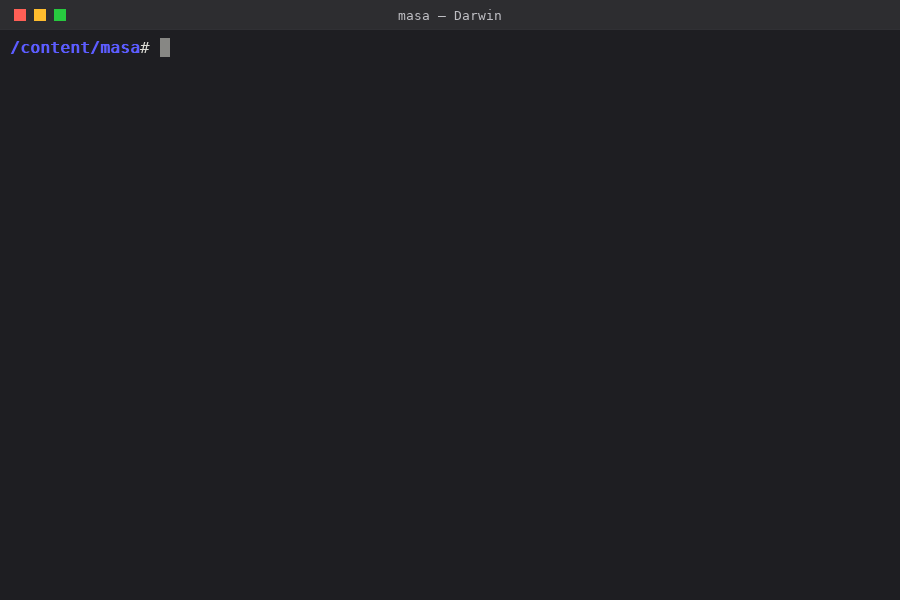
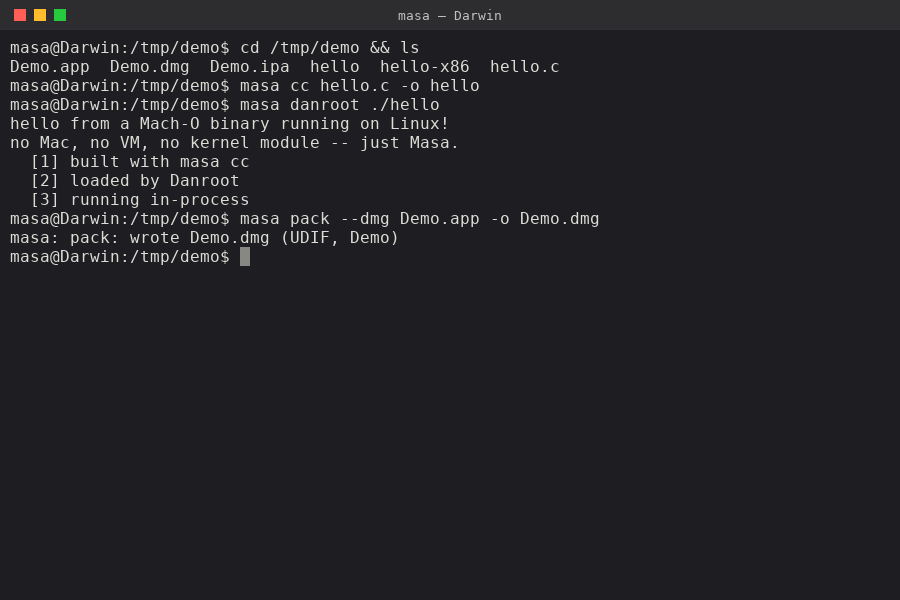
release: v1.6.1 - polished README, terminal screenshot, dist/NDK build fixes
Documentation and assets:
- Add a centered assets/logo.png header and embed a fresh 900x600
  masa-term screenshot (assets/masa-term.png) in the GUI terminal
  section.
- Add a "What's in the box" feature table covering every v1.6.0
  capability: Danroot Layers 1-5 (dynamic libraries, virtual root,
  CoreFoundation/Objective-C, the cross-architecture bridge, and the
  AppKit/CoreGraphics SDL2 backend), masa pack, masa brew, masa xcode
  and masa doctor.

Fixes (these unblocked the release build):
- scripts/dist.sh omitted src/danroot_appkit.c from the core source
  list, so the native and Windows archives failed to link with
  undefined references to dr_gui_lookup/dr_gui_reset/dr_gui_class/
  dr_gui_msgSend. Add the translation unit (its SDL2-free stubs are
  what the core tool links against).
- tests/test_masa.c's Android NDK compile test had the same omission;
  add src/danroot_cf.c, src/danroot_objc.c and src/danroot_appkit.c.
- .github/workflows/ci.yml's Windows cross-compile job had the same
  omission; add src/danroot_appkit.c.

Test hygiene:
- Add scripts/lsan.supp and wire it into the `make test-gui` rule. The
  only leak the GUI suite reports is a 1032-byte session allocation
  inside libdbus-1 (reached through SDL2's D-Bus backend), reproducible
  with a bare SDL2 program; the suppression matches only libdbus-1
  frames, so Masa's own allocations are still checked.

Bump MASA_VERSION to 1.6.1.

Verified: make test 113/113 (1 skipped), SDL_VIDEODRIVER=dummy make
[…]

Changed region(s): [[0.0, 0.06, 0.6222, 0.45], [0.56, 0.36, 0.6844, 0.39]]

diff --git a/tests/test_masa.c b/tests/test_masa.c
@@ -5353,7 +5353,8 @@ static void test_android_ndk_compile(void)
         "src/main.c", "src/cc_wrapper.c", "src/swift_wrapper.c",
         "src/sys_shims.c", "src/tool_shims.c", "src/sdk.c",
         "src/xcodeproj.c", "src/brew.c", "src/pack.c", "src/exec.c",
-        "src/doctor.c", "src/danroot.c",
+        "src/doctor.c", "src/danroot.c", "src/danroot_cf.c",
+        "src/danroot_objc.c", "src/danroot_appkit.c",
         "src/platform_posix.c"
     };
     const char *ndk_cc = getenv("ANDROID_CC");

diff --git a/include/masa.h b/include/masa.h
@@ -28,7 +28,7 @@
 extern "C" {
 #endif
 
-#define MASA_VERSION "1.6.0"
+#define MASA_VERSION "1.6.1"
 
 /* Target triple used when MASA_TARGET is not set in the environment. */
 #define MASA_DEFAULT_TARGET "arm64-apple-darwin"

diff --git a/README.md b/README.md
@@ -1,8 +1,10 @@
 # Masa
 
+<p align="center"><img src="assets/logo.png" alt="Masa Logo" width="140" /></p>
+
 [![License: GPL v3](https://img.shields.io/badge/License-GPLv3-blue.svg)](LICENSE)
 [![Language: C11](https://img.shields.io/badge/language-C11-00599C.svg)](#requirements)
-[![Version: v1.6.0](https://img.shields.io/badge/version-v1.6.0-brightgreen.svg)](https://github.com/M5Devs/masa/releases)
+[![Version: v1.6.1](https://img.shields.io/badge/version-v1.6.1-brightgreen.svg)](https://github.com/M5Devs/masa/releases)
 [![Platforms: Linux | Windows | Android](https://img.shields.io/badge/platforms-Linux%20%7C%20Windows%20%7C%20Android-lightgrey.svg)](#portability)
 
 > **Build and package macOS Mach-O binaries on Linux, Windows & Android — and
@@ -39,6 +41,25 @@ Masa is licensed under the GNU General Public License v3.0 or later. See
 - **It's small and portable.** Pure C11 built with `-std=c11 -Wall -Wextra
   -Werror` and no runtime dependencies for the core. Builds on Linux, Windows
   (MinGW-w64) and Android (NDK).
+
+## What's in the box
+
+Every capability below ships in **v1.6.1**, inside one dependency-free C11
+binary.
+
+| Capability | Command | What it does |
+| --- | --- | --- |
+| Cross-compile | `masa cc`, `masa swiftc` | Build real Mach-O executables and dylibs with `clang` + `ld64.lld` |
+| Run Mach-O | `masa run` / `masa danroot` | Execute a Mach-O `MH_EXECUTE` and its `MH_DYLIB` dependencies in-process — Danroot Layers 1–4 (dynamic libraries, virtual root, CoreFoundation + Objective-C runtimes, the cross-architecture bridge) |
+| Darwin GUI | `build/masa-gui run` | AppKit + CoreGraphics over SDL2 — open a real window for a self-contained Darwin app — Danroot Layer 5 |
+| Xcode projects | `masa xcode build` | Build a checked-in `.xcodeproj` and bundle the `.app`, without Xcode |
+| Homebrew | `masa brew lint` / `masa brew build` | Lint a formula and build it into a Cellar |
+| Package | `masa pack --dmg` / `--ipa` | Write a UDIF `.dmg` or a `Payload/<App>.app` `.ipa` from scratch |
+| Stub SDK | `masa sdk init-stub` | Write the clean-room SDK the linker needs (no Apple SDK) |
+| Build systems | `masa exec`, `masa shell`, `masa init-shims` | Run `make` and scripts with `cc`, `ld`, `ar`, `ranlib`, `strip`, `nm`, `otool` and `codesign` resolved to Masa's shims |
+| GUI terminal | `masa-term` | Standalone SDL2 + libvterm terminal running `masa shell` on a real PTY |
+| Readiness check | `masa doctor` | Report whether this host can cross-build Mach-O |
+| Local packaging | `make dist` | Package Linux, Windows and Android archives with `SHA256SUMS` |
 
 ## How it compares
 
@@ -887,6 +908,8 @@ pseudo-terminal, runs `masa shell` on it, feeds the output through `libvterm`
 and draws a dark, macOS-style window: a header bar with the red/yellow/green
 traffic lights and the `masa — Darwin` title, the full 256-colour and
 24-bit-RGB ANSI palette, and a blinking block cursor.
+
+![Masa Terminal](assets/masa-term.png)
 
 ```sh
 make gui
